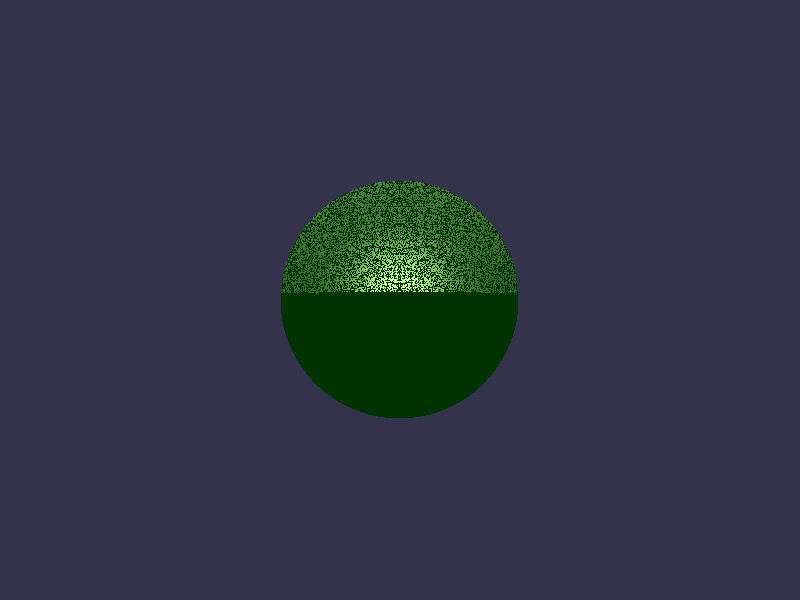
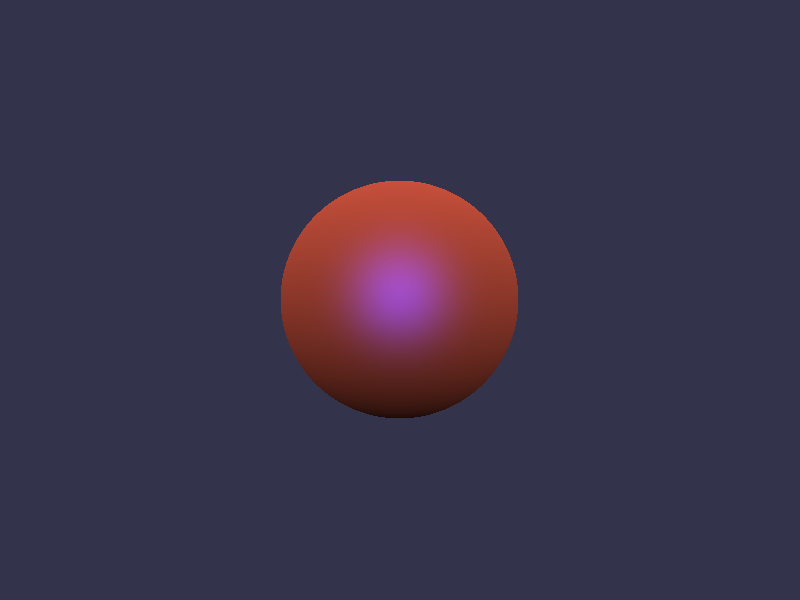
Working illumination

Changed region(s): [[0.3438, 0.3, 0.6562, 0.72]]

diff --git a/VCG_Raytracer/src/raytracer/Raytracer.java b/VCG_Raytracer/src/raytracer/Raytracer.java
@@ -86,36 +86,55 @@ public class Raytracer {
             Intersection intersection = shape.intersect(inRay);
             // Shape was hit
             if( intersection.isHit() ){
-                // 3a: send secondary ray to the light source
-                if( recursionCounter == 0 && !isLastRay ){
-                    for( Light light : mLightList ) {
-                        Ray lightRay = new Ray(intersection.getIntersectionPoint(), light.getPosition());
+                    //outColor = outColor.add( mAmbientColor);
+                Ray lightRay = new Ray(intersection.getIntersectionPoint(), mLightList.get(0).getPosition());
 
-                        outColor = outColor.add(findIntersection(recursionCounter, lightRay, localColor, light, shape, intersection, true));
-                    }
-                }
-                // If the last ray from an object is still intersected with an object the plan shadow color is drawn
-                //else if(recursionCounter == 0 && isLastRay){
-                //    return calculateShadowColor();
-                //}
-                // Further recursions through objects
-                else {
-                    outColor = outColor.add( mAmbientColor);
-                //    outColor = traceRay(recursionCounter, intersection.getOutRay());
-                }
+                outColor = calculateLocalIllumination(mLightList.get(0), shape, intersection);
             }
             else{
-                // If the last ray from an object to the light is not intersected calculate the color on that point
-                if( isLastRay ){
-                    outColor = outColor.add(mAmbientColor.add(calculateLocalIllumination(inLight, lastInterShape, lastIntersection)));
-                }
-                else {
                     outColor = mBackgroundColor;
-                }
             }
         }
         return outColor;
     }
+
+//    private RgbColor findIntersection(int recursionCounter, Ray inRay, RgbColor localColor, Light inLight, Shape lastInterShape, Intersection lastIntersection, boolean isLastRay){
+//        RgbColor outColor = localColor;
+//        // 2: Intersection test with all shapes
+//        for( Shape shape : mShapeList ){
+//            Intersection intersection = shape.intersect(inRay);
+//            // Shape was hit
+//            if( intersection.isHit() ){
+//                // 3a: send secondary ray to the light source
+//                if( recursionCounter == 0 && !isLastRay ){
+//                    for( Light light : mLightList ) {
+//                        Ray lightRay = new Ray(intersection.getIntersectionPoint(), light.getPosition());
+//
+//                        outColor = outColor.add(findIntersection(recursionCounter, lightRay, localColor, light, shape, intersection, true));
+//                    }
+//                }
+//                // If the last ray from an object is still intersected with an object the plan shadow color is drawn
+//                //else if(recursionCounter == 0 && isLastRay){
+//                //    return calculateShadowColor();
+//                //}
+//                // Further recursions through objects
+//                else {
+//                    outColor = outColor.add( mAmbientColor);
+//                //    outColor = traceRay(recursionCounter, intersection.getOutRay());
+//                }
+//            }
+//            else{
+//                // If the last ray from an object to the light is not intersected calculate the color on that point
+//                if( isLastRay ){
+//                    outColor = outColor.add(new RgbColor(1,0,0));// = outColor.add(mAmbientColor.add(calculateLocalIllumination(inLight, lastInterShape, lastIntersection)));
+//                }
+//                else {
+//                    outColor = mBackgroundColor;
+//                }
+//            }
+//        }
+//        return outColor;
+//    }
 
     private RgbColor calculateShadowColor(){
         Log.warn(this, "Painting shadow");

diff --git a/VCG_Raytracer/src/Main.java b/VCG_Raytracer/src/Main.java
@@ -70,7 +70,7 @@ public class Main {
     public static void setupScene(Scene renderScene){
         renderScene.createPerspCamera(CAM_POS, LOOK_AT, UP_VECTOR, VIEW_ANGLE, FOCAL_LENGTH, IMAGE_WIDTH, IMAGE_HEIGHT);
 
-        Material sphereMaterial = new Material(AMBIENT_COLOR, new RgbColor(0.4f,0.4f,0.4f), new RgbColor(0.8f,0.8f,0.8f), 10, Material.PHONG);
+        Material sphereMaterial = new Material(AMBIENT_COLOR, new RgbColor(1.0f,0.4f,0.4f), new RgbColor(0.1f,0.1f,1.0f), 10, Material.PHONG);
 
         renderScene.createSphere(new Vec3(0, -1, 0), sphereMaterial, 1f);
         renderScene.createPointLight(new Vec3( 0, 20, 0 ), new RgbColor(0.8f, 0.8f, 0.6f));
